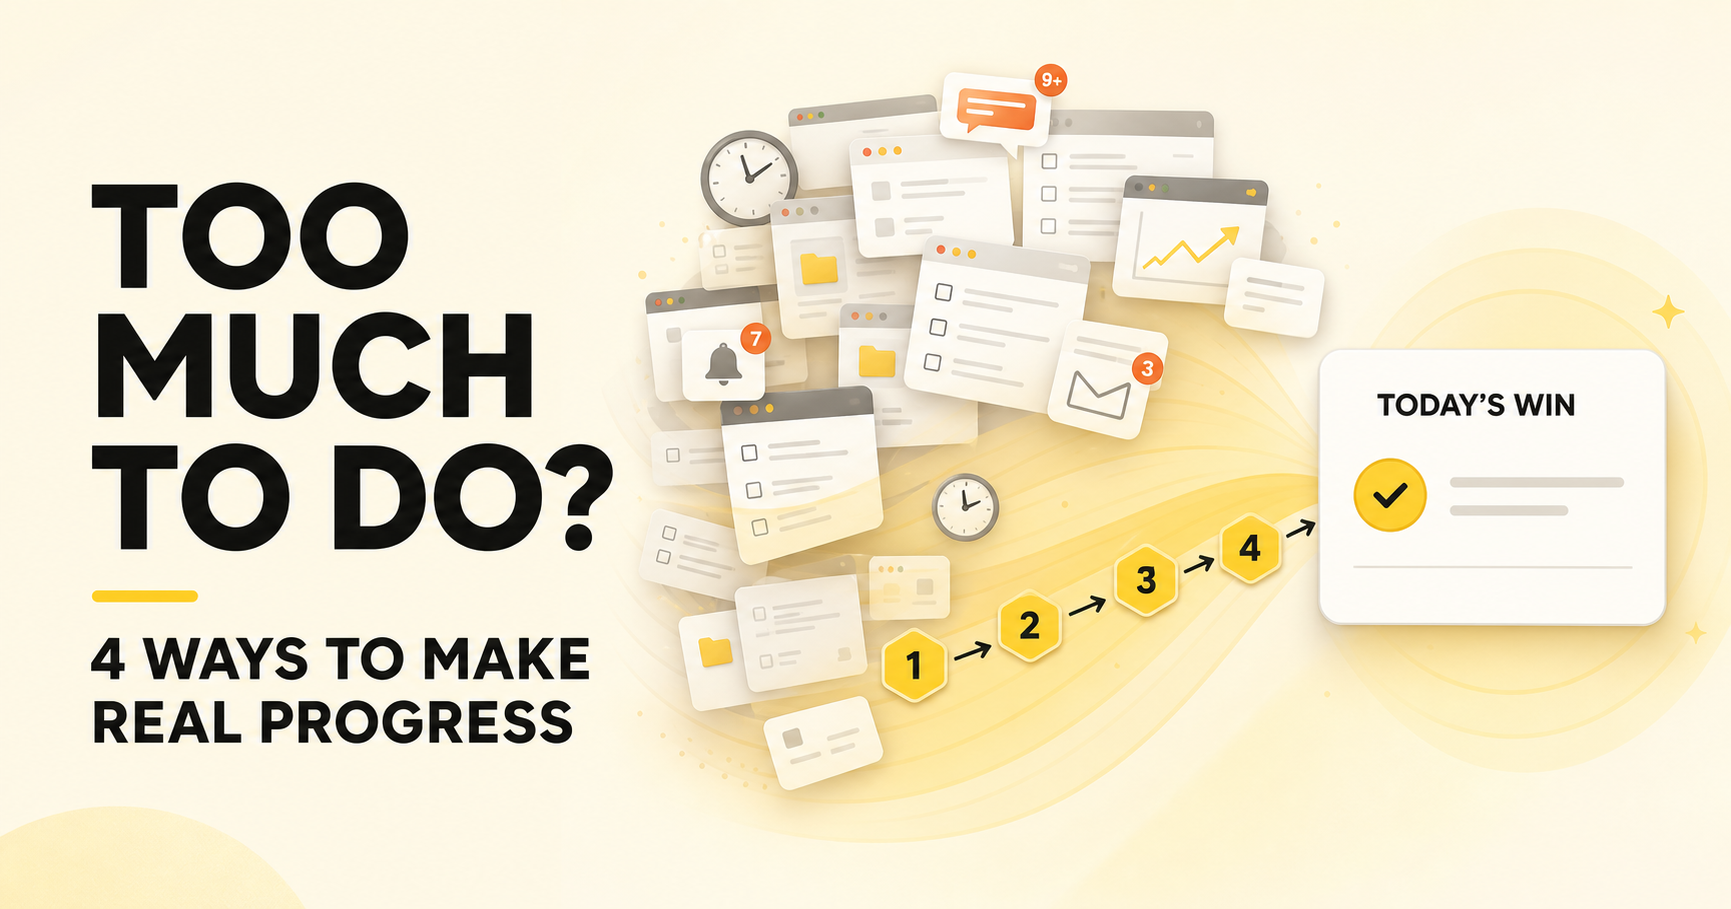
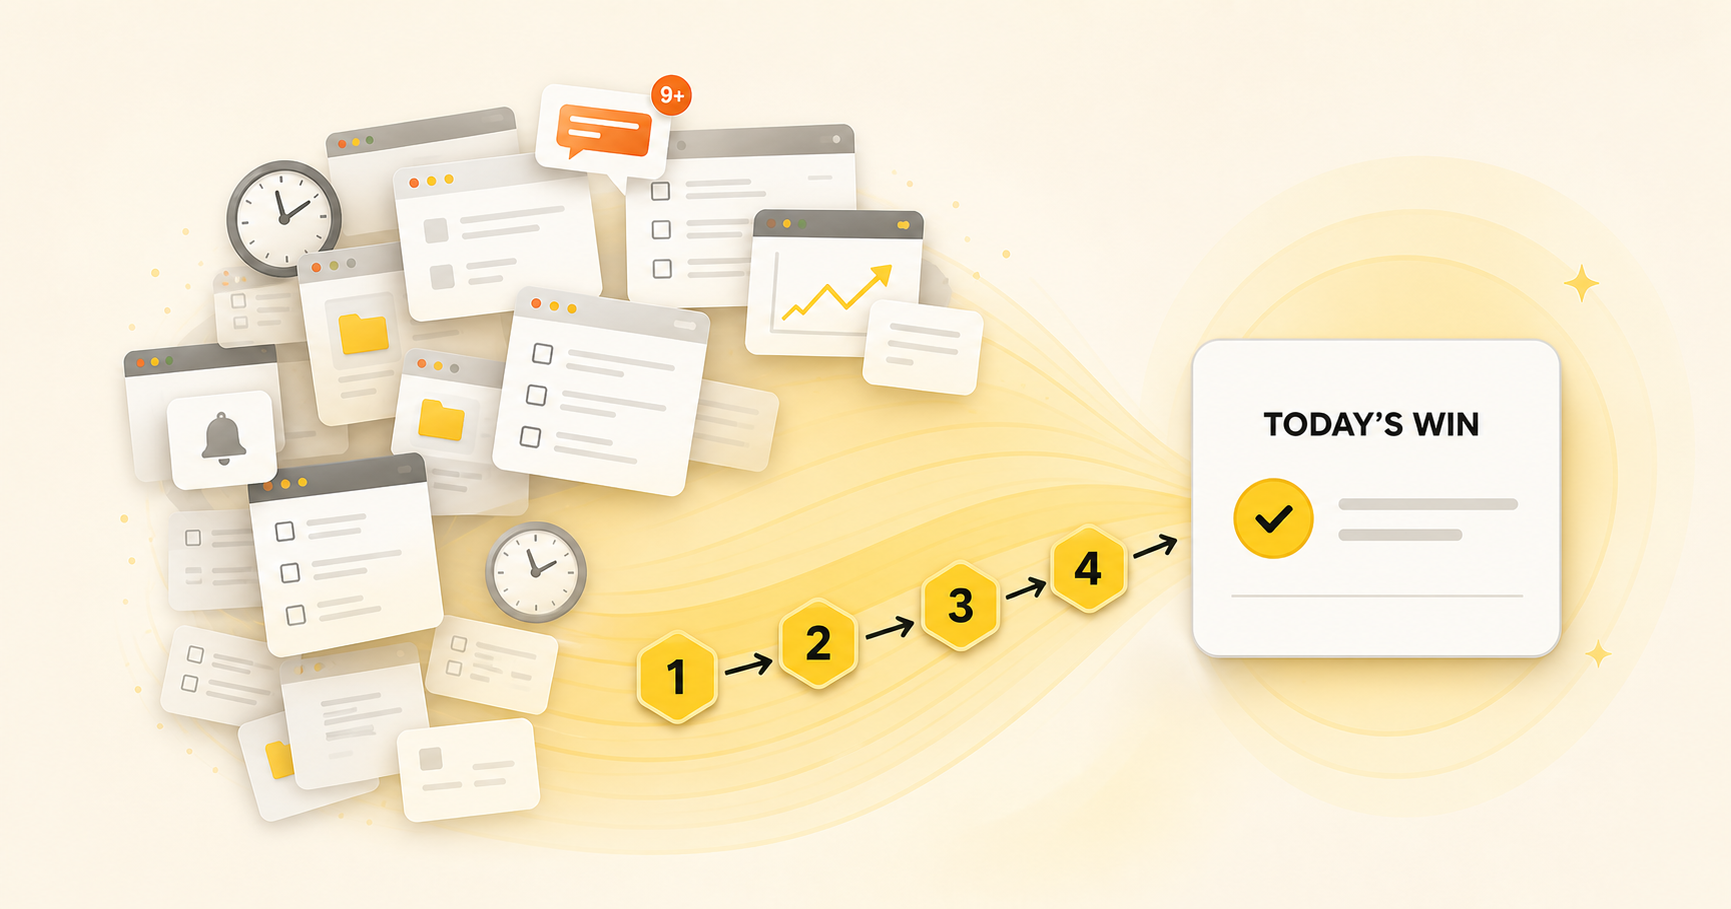
Refine workload guide cover art

diff --git a/blog.html b/blog.html
@@ -77,7 +77,7 @@
         <div class="blog-list" data-blog-list>
           <article class="blog-card is-visible" data-category="Guides">
             <a class="blog-card__image blog-card__image--custom" href="/blog/how-to-get-work-done-when-you-have-too-much-to-do" aria-label="Read 4 Ways to Get Real Work Done When You Already Have Too Much to Do">
-              <img src="/assets/images/blog/overloaded-work/cover.png" alt="Overlapping browser tasks becoming four clear steps that lead to today's most important task" />
+              <img src="/assets/images/blog/overloaded-work/cover.png?v=20260830-textless" alt="Overlapping browser tasks becoming four clear steps that lead to today's most important task" />
             </a>
             <div class="blog-card__body">
               <span class="blog-pill">Guides</span>

diff --git a/js/blog.js b/js/blog.js
@@ -11,8 +11,8 @@
       date: "August 30, 2026",
       readTime: "7 min read",
       author: "Luzora Team",
-      cardImage: "/assets/images/blog/overloaded-work/cover.png",
-      socialImage: "/assets/images/blog/overloaded-work/cover.png",
+      cardImage: "/assets/images/blog/overloaded-work/cover.png?v=20260830-textless",
+      socialImage: "/assets/images/blog/overloaded-work/cover.png?v=20260830-textless",
       cardImageAlt: "Overlapping browser tasks becoming four clear steps that lead to today's most important task",
       lead: [
         "It is 9:07 in the morning. You open your laptop with good intentions, see three messages marked urgent, remember the report you did not finish yesterday, and notice the tab for the course you promised yourself you would continue.",

diff --git a/api/blog-article.js b/api/blog-article.js
@@ -6,7 +6,7 @@ const ARTICLES = {
     title: "4 Ways to Get Real Work Done When You Already Have Too Much to Do",
     description: "Discover four practical ways to get real work done when you have too much to do: reset the overload, start smaller, protect focus, and negotiate trade-offs.",
     dek: "Four practical ways to stop reacting, decide what matters, and make meaningful progress without working yourself into the ground.",
-    image: "https://www.luzora.app/assets/images/blog/overloaded-work/cover.png",
+    image: "https://www.luzora.app/assets/images/blog/overloaded-work/cover.png?v=20260830-textless",
     dateLabel: "August 30, 2026",
     readTime: "7 min read",
     datePublished: "2026-08-30T09:00:00+01:00",
